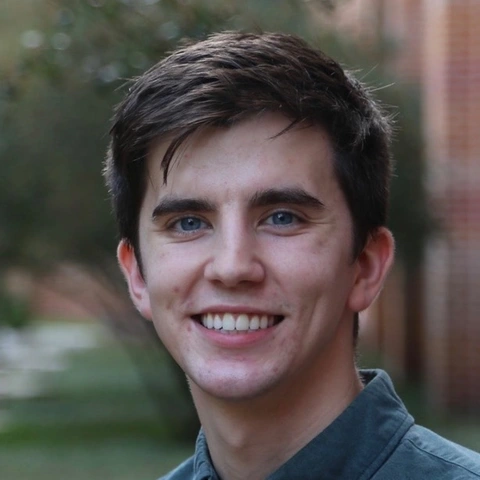
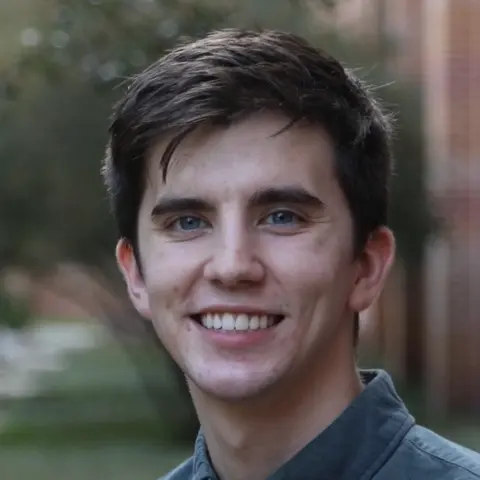
Deploying to gh-pages from @ jordanshivers/jordanshivers.github.io@213034a1077e1650dd63418ff5b4b78e73fe0879 🚀

diff --git a/blog/2021/diagrams/index.html b/blog/2021/diagrams/index.html
@@ -132,8 +132,8 @@ sequenceDiagram
 </code></pre></div></div>
 
 <div class="jekyll-diagrams diagrams mermaid">
-  <svg id="mermaid-1681574363817" width="100%" xmlns="http://www.w3.org/2000/svg" height="100%" style="max-width:450px;" viewbox="-50 -10 450 231"><style>#mermaid-1681574363817 .label{font-family:trebuchet ms,verdana,arial;color:#333}#mermaid-1681574363817 .node circle,#mermaid-1681574363817 .node ellipse,#mermaid-1681574363817 .node polygon,#mermaid-1681574363817 .node rect{fill:#ececff;stroke:#9370db;stroke-width:1px}#mermaid-1681574363817 .node.clickable{cursor:pointer}#mermaid-1681574363817 .arrowheadPath{fill:#333}#mermaid-1681574363817 .edgePath .path{stroke:#333;stroke-width:1.5px}#mermaid-1681574363817 .edgeLabel{background-color:#e8e8e8}#mermaid-1681574363817 .cluster rect{fill:#ffffde!important;stroke:#aa3!important;stroke-width:1px!important}#mermaid-1681574363817 .cluster text{fill:#333}#mermaid-1681574363817 div.mermaidTooltip{position:absolute;text-align:center;max-width:200px;padding:2px;font-family:trebuchet ms,verdana,arial;font-size:12px;background:#ffffde;border:1px solid #aa3;border-radius:2px;pointer-events:none;z-index:100}#mermaid-1681574363817 .actor{stroke:#ccf;fill:#ececff}#mermaid-1681574363817 text.actor{fill:#000;stroke:none}#mermaid-1681574363817 .actor-line{stroke:grey}#mermaid-1681574363817 .messageLine0{marker-end:"url(#arrowhead)"}#mermaid-1681574363817 .messageLine0,#mermaid-1681574363817 .messageLine1{stroke-width:1.5;stroke-dasharray:"2 2";stroke:#333}#mermaid-1681574363817 #arrowhead{fill:#333}#mermaid-1681574363817 #crosshead path{fill:#333!important;stroke:#333!important}#mermaid-1681574363817 .messageText{fill:#333;stroke:none}#mermaid-1681574363817 .labelBox{stroke:#ccf;fill:#ececff}#mermaid-1681574363817 .labelText,#mermaid-1681574363817 .loopText{fill:#000;stroke:none}#mermaid-1681574363817 .loopLine{stroke-width:2;stroke-dasharray:"2 2";marker-end:"url(#arrowhead)";stroke:#ccf}#mermaid-1681574363817 .note{stroke:#aa3;fill:#fff5ad}#mermaid-1681574363817 .noteText{fill:#000;stroke:none;font-family:trebuchet ms,verdana,arial;font-size:14px}#mermaid-1681574363817 .section{stroke:none;opacity:.2}#mermaid-1681574363817 .section0{fill:rgba(102,102,255,.49)}#mermaid-1681574363817 .section2{fill:#fff400}#mermaid-1681574363817 .section1,#mermaid-1681574363817 .section3{fill:#fff;opacity:.2}#mermaid-1681574363817 .sectionTitle0,#mermaid-1681574363817 .sectionTitle1,#mermaid-1681574363817 .sectionTitle2,#mermaid-1681574363817 .sectionTitle3{fill:#333}#mermaid-1681574363817 .sectionTitle{text-anchor:start;font-size:11px;text-height:14px}#mermaid-1681574363817 .grid .tick{stroke:#d3d3d3;opacity:.3;shape-rendering:crispEdges}#mermaid-1681574363817 .grid path{stroke-width:0}#mermaid-1681574363817 .today{fill:none;stroke:red;stroke-width:2px}#mermaid-1681574363817 .task{stroke-width:2}#mermaid-1681574363817 .taskText{text-anchor:middle;font-size:11px}#mermaid-1681574363817 .taskTextOutsideRight{fill:#000;text-anchor:start;font-size:11px}#mermaid-1681574363817 .taskTextOutsideLeft{fill:#000;text-anchor:end;font-size:11px}#mermaid-1681574363817 .taskText0,#mermaid-1681574363817 .taskText1,#mermaid-1681574363817 .taskText2,#mermaid-1681574363817 .taskText3{fill:#fff}#mermaid-1681574363817 .task0,#mermaid-1681574363817 .task1,#mermaid-1681574363817 .task2,#mermaid-1681574363817 .task3{fill:#8a90dd;stroke:#534fbc}#mermaid-1681574363817 .taskTextOutside0,#mermaid-1681574363817 .taskTextOutside1,#mermaid-1681574363817 .taskTextOutside2,#mermaid-1681574363817 .taskTextOutside3{fill:#000}#mermaid-1681574363817 .active0,#mermaid-1681574363817 .active1,#mermaid-1681574363817 .active2,#mermaid-1681574363817 .active3{fill:#bfc7ff;stroke:#534fbc}#mermaid-1681574363817 .activeText0,#mermaid-1681574363817 .activeText1,#mermaid-1681574363817 .activeText2,#mermaid-1681574363817 .activeText3{fill:#000!important}#mermaid-1681574363817 .done0,#mermaid-1681574363817 .done1,#mermaid-1681574363817 .done2,#mermaid-1681574363817 .done3{stroke:grey;fill:#d3d3d3;stroke-width:2}#mermaid-1681574363817 .doneText0,#mermaid-1681574363817 .doneText1,#mermaid-1681574363817 .doneText2,#mermaid-1681574363817 .doneText3{fill:#000!important}#mermaid-1681574363817 .crit0,#mermaid-1681574363817 .crit1,#mermaid-1681574363817 .crit2,#mermaid-1681574363817 .crit3{stroke:#f88;fill:red;stroke-width:2}#mermaid-1681574363817 .activeCrit0,#mermaid-1681574363817 .activeCrit1,#mermaid-1681574363817 .activeCrit2,#mermaid-1681574363817 .activeCrit3{stroke:#f88;fill:#bfc7ff;stroke-width:2}#mermaid-1681574363817 .doneCrit0,#mermaid-1681574363817 .doneCrit1,#mermaid-1681574363817 .doneCrit2,#mermaid-1681574363817 .doneCrit3{stroke:#f88;fill:#d3d3d3;stroke-width:2;cursor:pointer;shape-rendering:crispEdges}#mermaid-1681574363817 .activeCritText0,#mermaid-1681574363817 .activeCritText1,#mermaid-1681574363817 .activeCritText2,#mermaid-1681574363817 .activeCritText3,#mermaid-1681574363817 .doneCritText0,#mermaid-1681574363817 .doneCritText1,#mermaid-1681574363817 .doneCritText2,#mermaid-1681574363817 .doneCritText3{fill:#000!important}#mermaid-1681574363817 .titleText{text-anchor:middle;font-size:18px;fill:#000}#mermaid-1681574363817 g.classGroup text{fill:#9370db;stroke:none;font-family:trebuchet ms,verdana,arial;font-size:10px}#mermaid-1681574363817 g.classGroup rect{fill:#ececff;stroke:#9370db}#mermaid-1681574363817 g.classGroup line{stroke:#9370db;stroke-width:1}#mermaid-1681574363817 .classLabel .box{stroke:none;stroke-width:0;fill:#ececff;opacity:.5}#mermaid-1681574363817 .classLabel .label{fill:#9370db;font-size:10px}#mermaid-1681574363817 .relation{stroke:#9370db;stroke-width:1;fill:none}#mermaid-1681574363817 #compositionEnd,#mermaid-1681574363817 #compositionStart{fill:#9370db;stroke:#9370db;stroke-width:1}#mermaid-1681574363817 #aggregationEnd,#mermaid-1681574363817 #aggregationStart{fill:#ececff;stroke:#9370db;stroke-width:1}#mermaid-1681574363817 #dependencyEnd,#mermaid-1681574363817 #dependencyStart,#mermaid-1681574363817 #extensionEnd,#mermaid-1681574363817 #extensionStart{fill:#9370db;stroke:#9370db;stroke-width:1}#mermaid-1681574363817 .branch-label,#mermaid-1681574363817 .commit-id,#mermaid-1681574363817 .commit-msg{fill:#d3d3d3;color:#d3d3d3}</style>
-<style>#mermaid-1681574363817 {
+  <svg id="mermaid-1681575321476" width="100%" xmlns="http://www.w3.org/2000/svg" height="100%" style="max-width:450px;" viewbox="-50 -10 450 231"><style>#mermaid-1681575321476 .label{font-family:trebuchet ms,verdana,arial;color:#333}#mermaid-1681575321476 .node circle,#mermaid-1681575321476 .node ellipse,#mermaid-1681575321476 .node polygon,#mermaid-1681575321476 .node rect{fill:#ececff;stroke:#9370db;stroke-width:1px}#mermaid-1681575321476 .node.clickable{cursor:pointer}#mermaid-1681575321476 .arrowheadPath{fill:#333}#mermaid-1681575321476 .edgePath .path{stroke:#333;stroke-width:1.5px}#mermaid-1681575321476 .edgeLabel{background-color:#e8e8e8}#mermaid-1681575321476 .cluster rect{fill:#ffffde!important;stroke:#aa3!important;stroke-width:1px!important}#mermaid-1681575321476 .cluster text{fill:#333}#mermaid-1681575321476 div.mermaidTooltip{position:absolute;text-align:center;max-width:200px;padding:2px;font-family:trebuchet ms,verdana,arial;font-size:12px;background:#ffffde;border:1px solid #aa3;border-radius:2px;pointer-events:none;z-index:100}#mermaid-1681575321476 .actor{stroke:#ccf;fill:#ececff}#mermaid-1681575321476 text.actor{fill:#000;stroke:none}#mermaid-1681575321476 .actor-line{stroke:grey}#mermaid-1681575321476 .messageLine0{marker-end:"url(#arrowhead)"}#mermaid-1681575321476 .messageLine0,#mermaid-1681575321476 .messageLine1{stroke-width:1.5;stroke-dasharray:"2 2";stroke:#333}#mermaid-1681575321476 #arrowhead{fill:#333}#mermaid-1681575321476 #crosshead path{fill:#333!important;stroke:#333!important}#mermaid-1681575321476 .messageText{fill:#333;stroke:none}#mermaid-1681575321476 .labelBox{stroke:#ccf;fill:#ececff}#mermaid-1681575321476 .labelText,#mermaid-1681575321476 .loopText{fill:#000;stroke:none}#mermaid-1681575321476 .loopLine{stroke-width:2;stroke-dasharray:"2 2";marker-end:"url(#arrowhead)";stroke:#ccf}#mermaid-1681575321476 .note{stroke:#aa3;fill:#fff5ad}#mermaid-1681575321476 .noteText{fill:#000;stroke:none;font-family:trebuchet ms,verdana,arial;font-size:14px}#mermaid-1681575321476 .section{stroke:none;opacity:.2}#mermaid-1681575321476 .section0{fill:rgba(102,102,255,.49)}#mermaid-1681575321476 .section2{fill:#fff400}#mermaid-1681575321476 .section1,#mermaid-1681575321476 .section3{fill:#fff;opacity:.2}#mermaid-1681575321476 .sectionTitle0,#mermaid-1681575321476 .sectionTitle1,#mermaid-1681575321476 .sectionTitle2,#mermaid-1681575321476 .sectionTitle3{fill:#333}#mermaid-1681575321476 .sectionTitle{text-anchor:start;font-size:11px;text-height:14px}#mermaid-1681575321476 .grid .tick{stroke:#d3d3d3;opacity:.3;shape-rendering:crispEdges}#mermaid-1681575321476 .grid path{stroke-width:0}#mermaid-1681575321476 .today{fill:none;stroke:red;stroke-width:2px}#mermaid-1681575321476 .task{stroke-width:2}#mermaid-1681575321476 .taskText{text-anchor:middle;font-size:11px}#mermaid-1681575321476 .taskTextOutsideRight{fill:#000;text-anchor:start;font-size:11px}#mermaid-1681575321476 .taskTextOutsideLeft{fill:#000;text-anchor:end;font-size:11px}#mermaid-1681575321476 .taskText0,#mermaid-1681575321476 .taskText1,#mermaid-1681575321476 .taskText2,#mermaid-1681575321476 .taskText3{fill:#fff}#mermaid-1681575321476 .task0,#mermaid-1681575321476 .task1,#mermaid-1681575321476 .task2,#mermaid-1681575321476 .task3{fill:#8a90dd;stroke:#534fbc}#mermaid-1681575321476 .taskTextOutside0,#mermaid-1681575321476 .taskTextOutside1,#mermaid-1681575321476 .taskTextOutside2,#mermaid-1681575321476 .taskTextOutside3{fill:#000}#mermaid-1681575321476 .active0,#mermaid-1681575321476 .active1,#mermaid-1681575321476 .active2,#mermaid-1681575321476 .active3{fill:#bfc7ff;stroke:#534fbc}#mermaid-1681575321476 .activeText0,#mermaid-1681575321476 .activeText1,#mermaid-1681575321476 .activeText2,#mermaid-1681575321476 .activeText3{fill:#000!important}#mermaid-1681575321476 .done0,#mermaid-1681575321476 .done1,#mermaid-1681575321476 .done2,#mermaid-1681575321476 .done3{stroke:grey;fill:#d3d3d3;stroke-width:2}#mermaid-1681575321476 .doneText0,#mermaid-1681575321476 .doneText1,#mermaid-1681575321476 .doneText2,#mermaid-1681575321476 .doneText3{fill:#000!important}#mermaid-1681575321476 .crit0,#mermaid-1681575321476 .crit1,#mermaid-1681575321476 .crit2,#mermaid-1681575321476 .crit3{stroke:#f88;fill:red;stroke-width:2}#mermaid-1681575321476 .activeCrit0,#mermaid-1681575321476 .activeCrit1,#mermaid-1681575321476 .activeCrit2,#mermaid-1681575321476 .activeCrit3{stroke:#f88;fill:#bfc7ff;stroke-width:2}#mermaid-1681575321476 .doneCrit0,#mermaid-1681575321476 .doneCrit1,#mermaid-1681575321476 .doneCrit2,#mermaid-1681575321476 .doneCrit3{stroke:#f88;fill:#d3d3d3;stroke-width:2;cursor:pointer;shape-rendering:crispEdges}#mermaid-1681575321476 .activeCritText0,#mermaid-1681575321476 .activeCritText1,#mermaid-1681575321476 .activeCritText2,#mermaid-1681575321476 .activeCritText3,#mermaid-1681575321476 .doneCritText0,#mermaid-1681575321476 .doneCritText1,#mermaid-1681575321476 .doneCritText2,#mermaid-1681575321476 .doneCritText3{fill:#000!important}#mermaid-1681575321476 .titleText{text-anchor:middle;font-size:18px;fill:#000}#mermaid-1681575321476 g.classGroup text{fill:#9370db;stroke:none;font-family:trebuchet ms,verdana,arial;font-size:10px}#mermaid-1681575321476 g.classGroup rect{fill:#ececff;stroke:#9370db}#mermaid-1681575321476 g.classGroup line{stroke:#9370db;stroke-width:1}#mermaid-1681575321476 .classLabel .box{stroke:none;stroke-width:0;fill:#ececff;opacity:.5}#mermaid-1681575321476 .classLabel .label{fill:#9370db;font-size:10px}#mermaid-1681575321476 .relation{stroke:#9370db;stroke-width:1;fill:none}#mermaid-1681575321476 #compositionEnd,#mermaid-1681575321476 #compositionStart{fill:#9370db;stroke:#9370db;stroke-width:1}#mermaid-1681575321476 #aggregationEnd,#mermaid-1681575321476 #aggregationStart{fill:#ececff;stroke:#9370db;stroke-width:1}#mermaid-1681575321476 #dependencyEnd,#mermaid-1681575321476 #dependencyStart,#mermaid-1681575321476 #extensionEnd,#mermaid-1681575321476 #extensionStart{fill:#9370db;stroke:#9370db;stroke-width:1}#mermaid-1681575321476 .branch-label,#mermaid-1681575321476 .commit-id,#mermaid-1681575321476 .commit-msg{fill:#d3d3d3;color:#d3d3d3}</style>
+<style>#mermaid-1681575321476 {
     color: rgb(0, 0, 0);
     font: normal normal 400 normal 16px / normal "Times New Roman";
   }</style>

diff --git a/index.html b/index.html
@@ -111,7 +111,7 @@
     
 
     <!-- Fallback to the original file -->
-    <img src="/assets/img/profile.jpg" class="img-fluid z-depth-1 rounded" width="auto" height="auto" alt="profile.jpg" onerror="this.onerror=null; $('.responsive-img-srcset').remove();">
+    <img src="/assets/img/profile.png" class="img-fluid z-depth-1 rounded-circle" width="auto" height="auto" alt="profile.png" onerror="this.onerror=null; $('.responsive-img-srcset').remove();">
 
   </picture>
 
